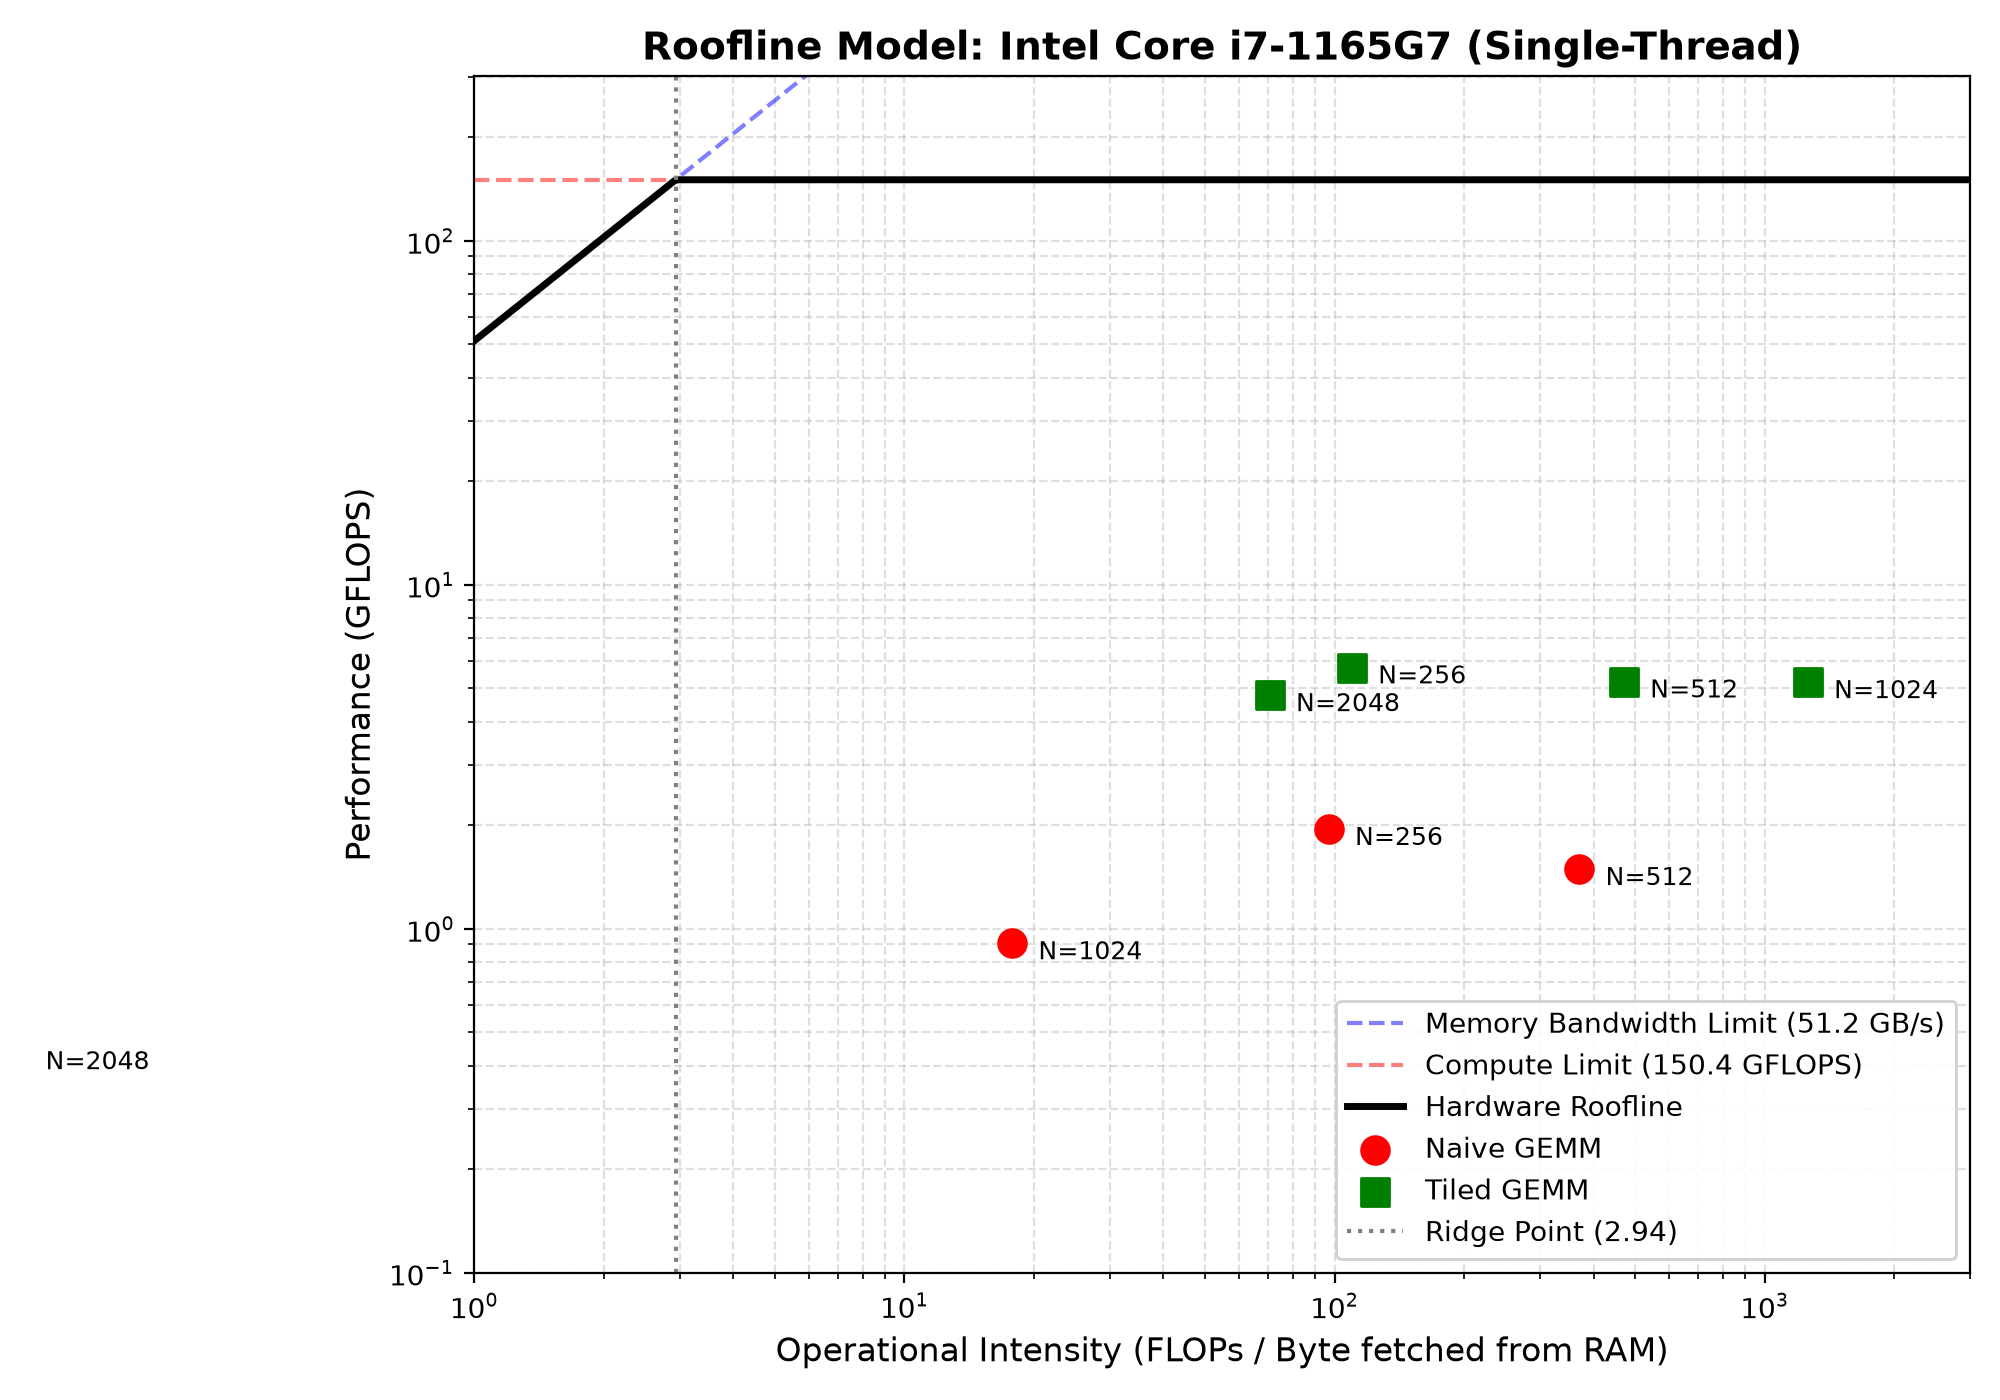
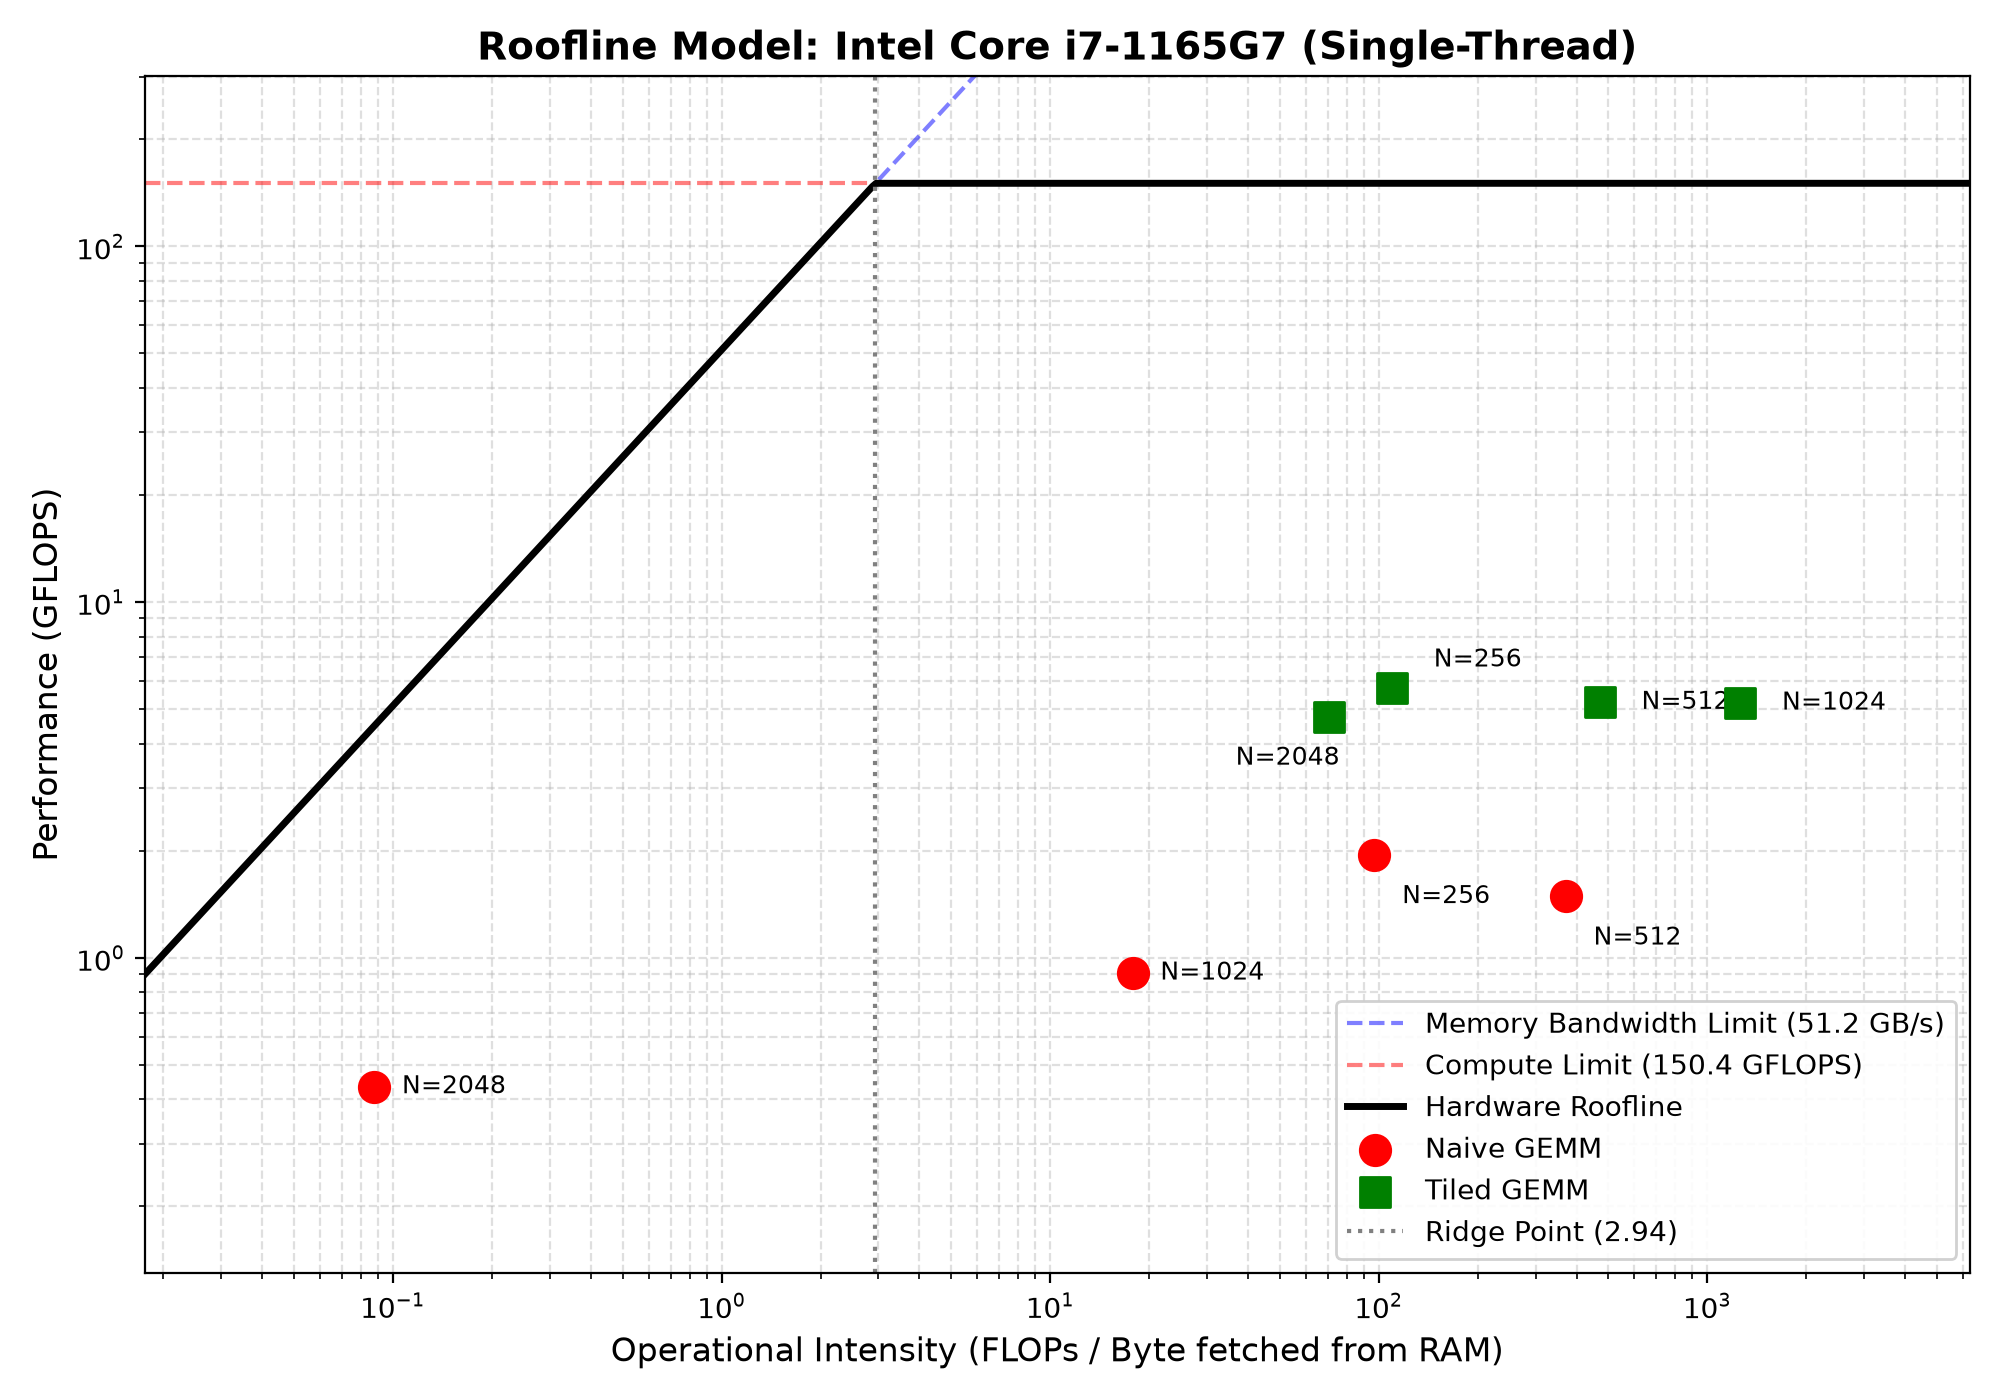
fix bench plotting

diff --git a/scripts/plot_roofline.py b/scripts/plot_roofline.py
@@ -4,15 +4,10 @@ import pandas as pd
 import os
 
 # =============================================================================
-# 0. PATH RESOLUTION (Adapting to your project structure)
+# 0. PATH RESOLUTION 
 # =============================================================================
-# Get the absolute path to the directory where this script lives (.../tensor_engine/scripts)
 SCRIPT_DIR = os.path.dirname(os.path.abspath(__file__))
-
-# Go up one level to the project root (.../tensor_engine)
 PROJECT_ROOT = os.path.dirname(SCRIPT_DIR)
-
-# Define exact paths for the CSV input and PNG output
 csv_path = os.path.join(PROJECT_ROOT, 'benchmarks', 'gemm_roofline.csv')
 png_path = os.path.join(PROJECT_ROOT, 'benchmarks', 'roofline.png')
 
@@ -28,99 +23,111 @@ CACHE_LINE_BYTES = 64
 # =============================================================================
 if not os.path.exists(csv_path):
     print(f"Error: Could not find {csv_path}")
-    print(f"Make sure your CSV is located at: {csv_path}")
     exit(1)
 
 df = pd.read_csv(csv_path, thousands=',')
-
+df['LLC_misses'] = pd.to_numeric(df['LLC_misses'], errors='coerce')
+df = df.dropna(subset=['LLC_misses']).copy()
 
 # =============================================================================
 # 3. MATHEMATICAL CALCULATIONS (Operational Intensity)
 # =============================================================================
-# Operational Intensity = Total FLOPs / Total Bytes fetched from RAM
-# For Matrix Multiplication (C = A * B), total FLOPs = 2 * N^3
 df['total_flops'] = 2 * (df['N'] ** 3)
-
-# Total Bytes from RAM = LLC Misses * 64 bytes (size of one cache line)
 df['total_bytes_from_ram'] = df['LLC_misses'] * CACHE_LINE_BYTES
-
-# Operational Intensity (FLOPs per byte)
 df['intensity'] = df['total_flops'] / df['total_bytes_from_ram']
-
-# Ensure GFLOPS is numeric
 df['gflops'] = pd.to_numeric(df['gflops'])
 
+# =============================================================================
+# 4. DYNAMIC GRAPH LIMITS (Fixes the missing N=2048 point)
+# =============================================================================
+# Find the min/max of our actual data to set boundaries
+min_intensity = df['intensity'].min()
+max_intensity = df['intensity'].max()
+
+# Pad the edges so points don't touch the borders of the image
+axis_min_x = min_intensity * 0.2  # Go slightly lower than the lowest point
+axis_max_x = max_intensity * 5.0  # Go slightly higher than the highest point
+
+# Create X-axis points dynamically based on our new limits
+I_range = np.logspace(np.log10(axis_min_x), np.log10(axis_max_x), 500)
 
 # =============================================================================
-# 4. DRAWING THE ROOFLINE MODEL
+# 5. DRAWING THE ROOFLINE MODEL
 # =============================================================================
 plt.figure(figsize=(10, 7))
 
-# Create an X-axis (Operational Intensity) ranging from 1 to 10,000 using log scale
-I_range = np.logspace(0, 4, 500)
-
-# The Memory Roof: Performance is limited by how fast RAM can feed the CPU
 mem_roof = BANDWIDTH * I_range
-
-# The Compute Roof: Performance is limited by maximum CPU Math speed
 comp_roof = PEAK_GFLOPS * np.ones_like(I_range)
-
-# The actual roofline is the bottleneck (the minimum of memory OR compute limit)
 actual_roof = np.minimum(mem_roof, comp_roof)
 
-# Plot the lines
 plt.loglog(I_range, mem_roof, 'b--', alpha=0.5, label=f'Memory Bandwidth Limit ({BANDWIDTH} GB/s)')
 plt.loglog(I_range, comp_roof, 'r--', alpha=0.5, label=f'Compute Limit ({PEAK_GFLOPS} GFLOPS)')
 plt.loglog(I_range, actual_roof, 'k-', linewidth=2.5, label='Hardware Roofline')
 
-
 # =============================================================================
-# 5. PLOTTING YOUR BENCHMARK DATA
+# 6. PLOTTING THE POINTS & SMART LABELS
 # =============================================================================
-# We will use different colors/markers for Naive vs Tiled
-implementations = df['impl'].unique()
 colors = {'naive': 'red', 'tiled': 'green'}
-markers = {'naive': 'o', 'tiled': 's'} # 'o' = circle, 's' = square
+markers = {'naive': 'o', 'tiled': 's'}
 
-for impl in implementations:
+for impl in df['impl'].unique():
     subset = df[df['impl'] == impl]
+    
+    # Plot the dots
     plt.scatter(
-        subset['intensity'], 
-        subset['gflops'], 
-        color=colors.get(impl, 'blue'), 
-        marker=markers.get(impl, '^'),
-        s=100, # Size of the dots
-        zorder=5, # Ensure dots render on top of the lines
-        label=f'{impl.capitalize()} GEMM'
+        subset['intensity'], subset['gflops'], 
+        color=colors.get(impl, 'blue'), marker=markers.get(impl, 'o'),
+        s=120, zorder=5, label=f'{impl.capitalize()} GEMM'
     )
     
-    # Add text labels next to the dots so we know which N size is which
+    # Add smart labels
     for _, row in subset.iterrows():
-        plt.text(
-            row['intensity'] * 1.15,  # Shift text slightly to the right
-            row['gflops'] * 0.9,      # Shift text slightly down
-            f"N={int(row['N'])}", 
-            fontsize=9
-        )
-
-# =============================================================================
-# 6. GRAPH FORMATTING & SAVING
+        n_val = int(row['N'])
+        
+        # Default offset: 10 pixels right, 0 pixels up
+        x_offset = 10
+        y_offset = 0
+        
+        # Custom rules to prevent overlaps on specific clusters
+        if impl == 'tiled':
+            if n_val == 2048:
+                x_offset = -15  # Push left
+                y_offset = -15  # Push down
+            elif n_val == 256:
+                x_offset = 15   # Push right
+                y_offset = 10   # Push up
+            else:
+                x_offset = 15   # Standard right shift for other tiled points
+        elif impl == 'naive':
+            if n_val == 256 or n_val == 512:
+                y_offset = -15  # Push down so it doesn't crowd the dot
+            
+        # plt.annotate lets us use exact pixel offsets ('offset points')
+        plt.annotate(
+            f"N={n_val}",
+            xy=(row['intensity'], row['gflops']),  # The exact coordinate of the dot
+            xytext=(x_offset, y_offset),           # The pixel offset for the text
+            textcoords='offset points',            # Tell matplotlib these are pixel offsets
+            fontsize=9,
+            ha='center' if x_offset < 0 else 'left', # Align text properly
+            va='center'
+        )# =============================================================================
+# 7. GRAPH FORMATTING & SAVING
 # =============================================================================
 plt.xlabel('Operational Intensity (FLOPs / Byte fetched from RAM)', fontsize=12)
 plt.ylabel('Performance (GFLOPS)', fontsize=12)
 plt.title('Roofline Model: Intel Core i7-1165G7 (Single-Thread)', fontsize=14, fontweight='bold')
 
-# The Ridge Point is where the system shifts from Memory-Bound to Compute-Bound
 ridge_point_intensity = PEAK_GFLOPS / BANDWIDTH
 plt.axvline(x=ridge_point_intensity, color='gray', linestyle=':', label=f'Ridge Point ({ridge_point_intensity:.2f})')
 
 plt.legend(loc='lower right', framealpha=0.9)
 plt.grid(True, which='both', linestyle='--', alpha=0.4)
 
-# Set axis limits so the graph focuses nicely on the data
-plt.xlim(1, 3000)
-plt.ylim(0.1, max(PEAK_GFLOPS * 2, df['gflops'].max() * 2))
+# Apply our dynamic limits
+plt.xlim(axis_min_x, axis_max_x)
+plt.ylim(df['gflops'].min() * 0.3, PEAK_GFLOPS * 2) # Adjust Y-axis dynamically too
 
 plt.tight_layout()
 plt.savefig(png_path, dpi=200)
-print("Successfully generated and saved 'benchmarks/roofline.png'!")
+print(f"Successfully generated and saved '{png_path}'!")
